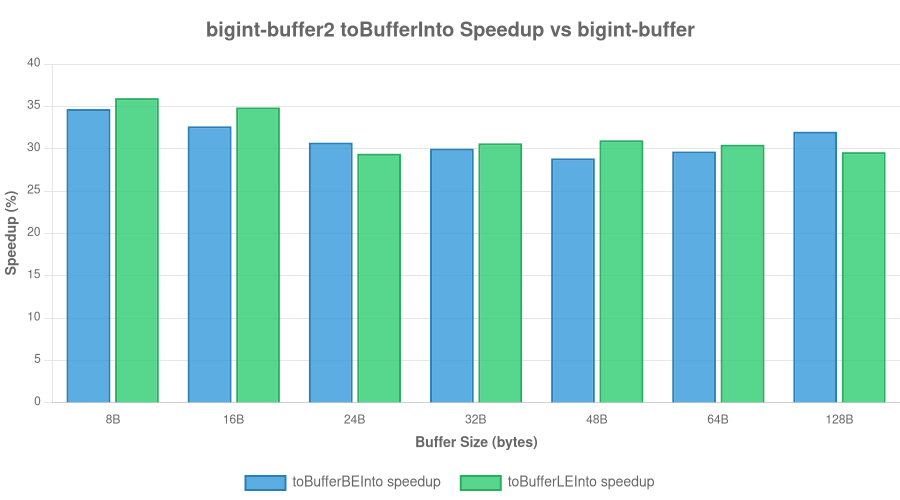
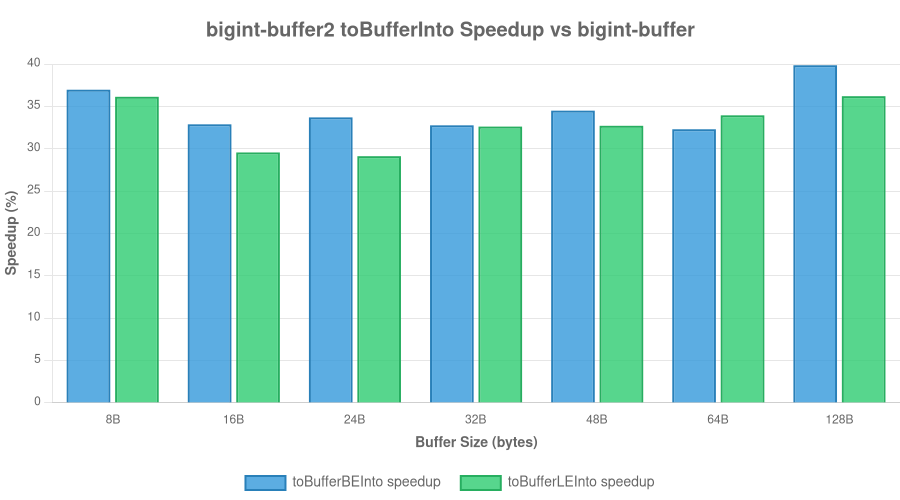
docs: rewrite main README and add benchmark charts
Main README:
- Add compelling tagline and "Why?" section
- Add package table with highlights
- Include speedup chart showing 30-40% performance gain
- Add quick start examples for all packages
- Note browser support

bigint-buffer2 README:
- Update performance section with actual benchmark charts
- Add speedup chart and toBufferBE comparison
- Add instructions for regenerating charts

Regenerate all benchmark charts with fresh data

diff --git a/README.md b/README.md
@@ -1,38 +1,77 @@
 # <img src=".github/swissknife.svg" height="40"/> bigint-swissknife
 
-[BigInt](https://developer.mozilla.org/en-US/docs/Web/JavaScript/Reference/Global_Objects/BigInt) is a great addition to the JavaScript language, but it's still missing some utilities and features. This project aims to provide some missing utilities and features for BigInt.
+**The missing BigInt toolkit for JavaScript/TypeScript** — Fast buffer conversions, math utilities, bounded integers, and more.
 
-This is a mono-repository containing several packages that provide utilities for working with BigInts.
+<img src="https://img.shields.io/badge/TypeScript-007ACC?style=for-the-badge&logo=typescript&logoColor=white"/> <img src="https://img.shields.io/badge/Rust-000000?style=for-the-badge&logo=rust&logoColor=white"/> <img src="https://img.shields.io/badge/vitest-6E9F18?style=for-the-badge&logo=vitest&logoColor=white"/>
 
-A couple of examples:
+## Why?
 
-- `bigint` lacks support in `Math.max` and `Math.min` functions.
-- The `Buffer` class does not support `bigint` natively.
-- There is no way to work with bounded `BigInts` (e.g., `uint8`, `int8`, `uint16`, `int16`, etc.).
-- There is no way to work with `bigint` and `Uint8Array` natively converting between the two.
-- Generating a random `bigint` is not possible natively.
+JavaScript's `BigInt` is powerful but incomplete. The standard library leaves you without:
+
+- **Buffer conversion** — No native way to convert between `BigInt` and `Uint8Array`/`Buffer`
+- **Math functions** — `Math.max()`, `Math.min()`, `Math.abs()` don't work with BigInt
+- **Bounded integers** — No `u8`, `i32`, `u256` types with overflow protection
+- **Random generation** — No way to generate cryptographically random BigInts
+
+This monorepo fills those gaps with **fast, type-safe, browser-compatible** packages.
 
 ## Packages
 
-Currently, this repo is composed by the following packages:
+| Package | Description | Highlights |
+|---------|-------------|------------|
+| **[@vekexasia/bigint-buffer2](./packages/bigint-buffer2)** | BigInt ↔ Buffer conversion | 🦀 Rust native bindings, ~30% faster than alternatives |
+| **[@vekexasia/bigint-uint8array](./packages/bigint-uint8array)** | BigInt ↔ Uint8Array with bounds checking | Signed/unsigned, big/little endian |
+| **[@vekexasia/bigint-constrained](./packages/bigint-constrained)** | Bounded BigInts (u8, i32, u256, etc.) | Overflow protection on all operations |
+| **[@vekexasia/bigint-math](./packages/bigint-math)** | Math utilities for BigInt | abs, sign, max, min, rand, bitLength |
+| **[@vekexasia/bigint-buffer-polyfill](./packages/bigint-buffer-polyfill)** | Buffer prototype extensions | `buf.writeBigIntBE()`, `buf.readBigUIntLE()` |
 
-- [@vekexasia/bigint-buffer-polyfill](./packages/bigint-buffer-polyfill/README.md): Buffer polyfill for BigInt
-- [@vekexasia/bigint-constrained](./packages/bigint-constrained/README.md): Bounded BigInts
-- [@vekexasia/bigint-math](./packages/bigint-math/README.md): BigInt Math utils
-- [@vekexasia/bigint-uint8array](./packages/bigint-uint8array/README.md): Uint8Array conversion from/to BigInt
+## Performance
 
-All the packages are written in TypeScript and come with their own type definitions. 
+`bigint-buffer2` provides native Rust bindings that outperform pure JavaScript implementations:
 
-All the packages<sup>1</sup> also provide a browser compatible build. Check out the README of each package for more information.
+![Speedup Chart](./packages/bigint-buffer2/docs/benchmark-speedup.png)
 
-<sup>1</sup> exception made for `bigint-buffer-polyfill` which does not make sense in a browser environment.
+*~30-35% faster than the original bigint-buffer library across all buffer sizes.*
+
+## Quick Start
+
+```bash
+# Core buffer conversion (recommended starting point)
+npm install @vekexasia/bigint-buffer2
+
+# Or pick what you need
+npm install @vekexasia/bigint-uint8array  # bounds-checked conversions
+npm install @vekexasia/bigint-constrained # bounded integers
+npm install @vekexasia/bigint-math        # math utilities
+```
+
+### Examples
+
+```typescript
+// Buffer conversion (bigint-buffer2)
+import { toBigIntBE, toBufferBE } from '@vekexasia/bigint-buffer2';
+const num = toBigIntBE(new Uint8Array([0x01, 0x02, 0x03]));  // 66051n
+const buf = toBufferBE(12345n, 4);  // Uint8Array [0, 0, 48, 57]
+
+// Bounded integers (bigint-constrained)
+import { u8, i32 } from '@vekexasia/bigint-constrained';
+const byte = u8(255n);
+byte.add(1n);  // throws RangeError: overflow
+
+// Math utilities (bigint-math)
+import { BigIntMath } from '@vekexasia/bigint-math';
+BigIntMath.max(1n, 5n, 3n);        // 5n
+BigIntMath.rand(1000000000000n);   // random BigInt 0..1T
+```
+
+## Browser Support
+
+All packages work in browsers. `bigint-buffer2` automatically falls back to a pure JS implementation when native bindings aren't available.
 
 ## Documentation
 
-You can find the main typedoc documentation [here](https://vekexasia.github.io/bigint-swissknife/).
+Full API documentation: **[vekexasia.github.io/bigint-swissknife](https://vekexasia.github.io/bigint-swissknife/)**
 
 ## License
 
-This project is licensed under the MIT License - see the [LICENSE](./LICENSE) file for details.
-
-
+MIT License - see [LICENSE](./LICENSE.md) for details.

diff --git a/packages/bigint-buffer2/README.md b/packages/bigint-buffer2/README.md
@@ -88,16 +88,23 @@ The library is entirely written in TypeScript and comes with its own type defini
 
 ## Performance
 
-This package provides significant performance improvements over pure JavaScript implementations:
+The `toBufferInto` methods provide **30-40% speedup** over the original bigint-buffer library by avoiding buffer allocation:
 
-| Operation | Native | JS Fallback |
-|-----------|--------|-------------|
-| toBigIntBE (64B) | ~2x faster | baseline |
-| toBufferBE (64B) | ~2x faster | baseline |
+![Speedup Chart](./docs/benchmark-speedup.png)
 
-Run benchmarks:
+### Detailed Comparison
+
+![toBufferBE Performance](./docs/benchmark-toBufferBE.png)
+
+The green line shows `toBufferBEInto` which writes directly into a pre-allocated buffer, eliminating allocation overhead.
+
+### Run Benchmarks
+
 ```bash
 npm run benchmark
+
+# Generate charts (requires chart.js)
+npx tsx scripts/generate-charts.ts
 ```
 
 ## License
